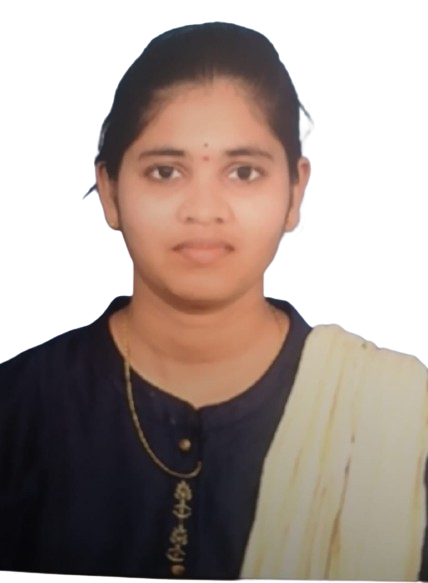
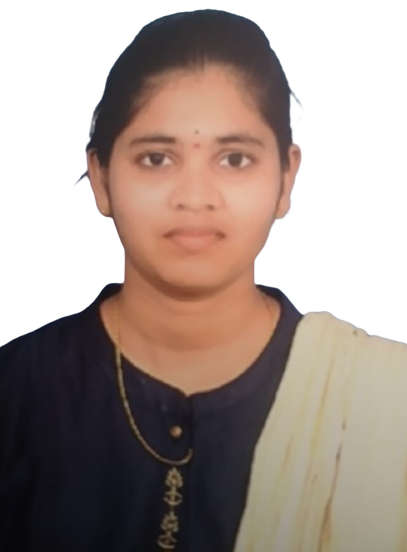
portfolio

diff --git a/style.css b/style.css
@@ -171,8 +171,9 @@ padding-bottom: 10%;
     box-sizing: border-box;
 }
 .img img{
-    margin-top: 20%;
-    margin-left: -30%;
+    margin-top: 50%;
+    margin-left: -10%;
+    margin-right: 60%;
     width: 100%;
     height: 60vh;
     border-radius: 90px;
